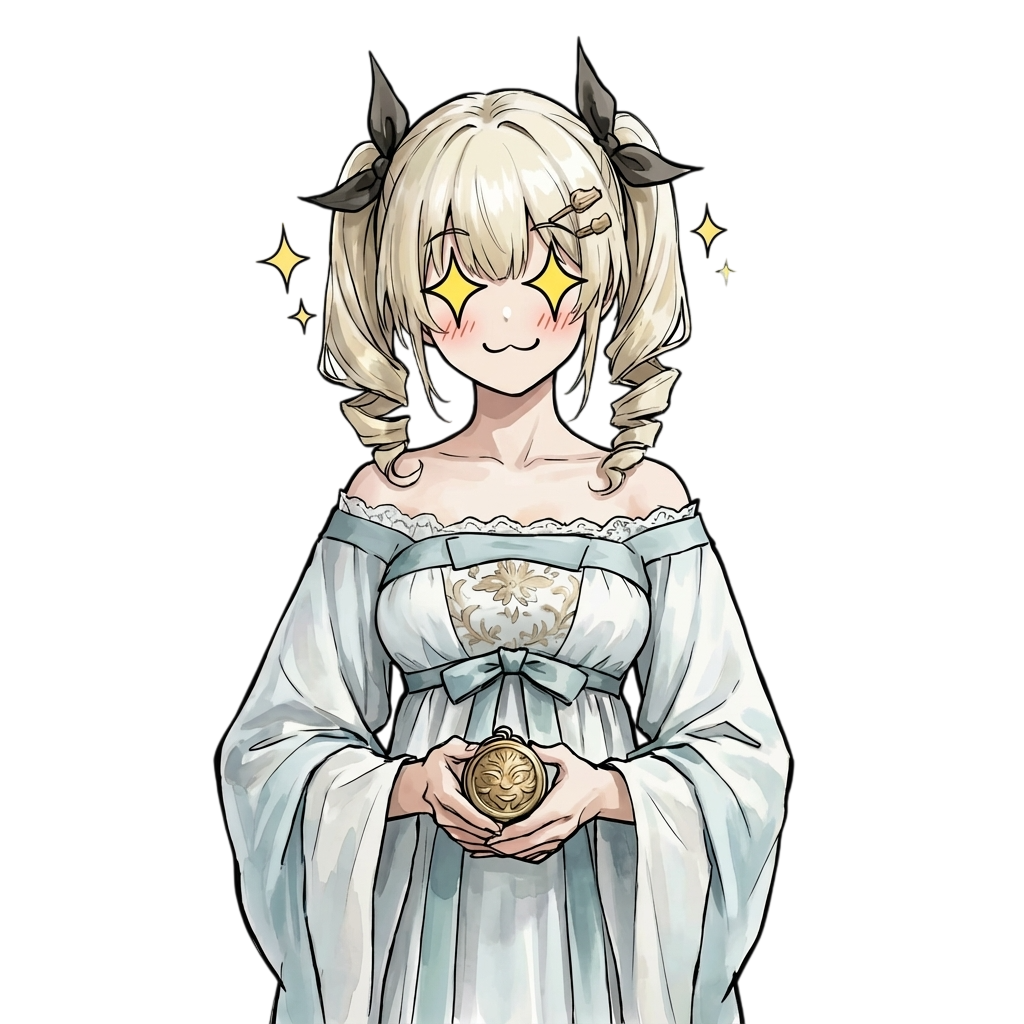
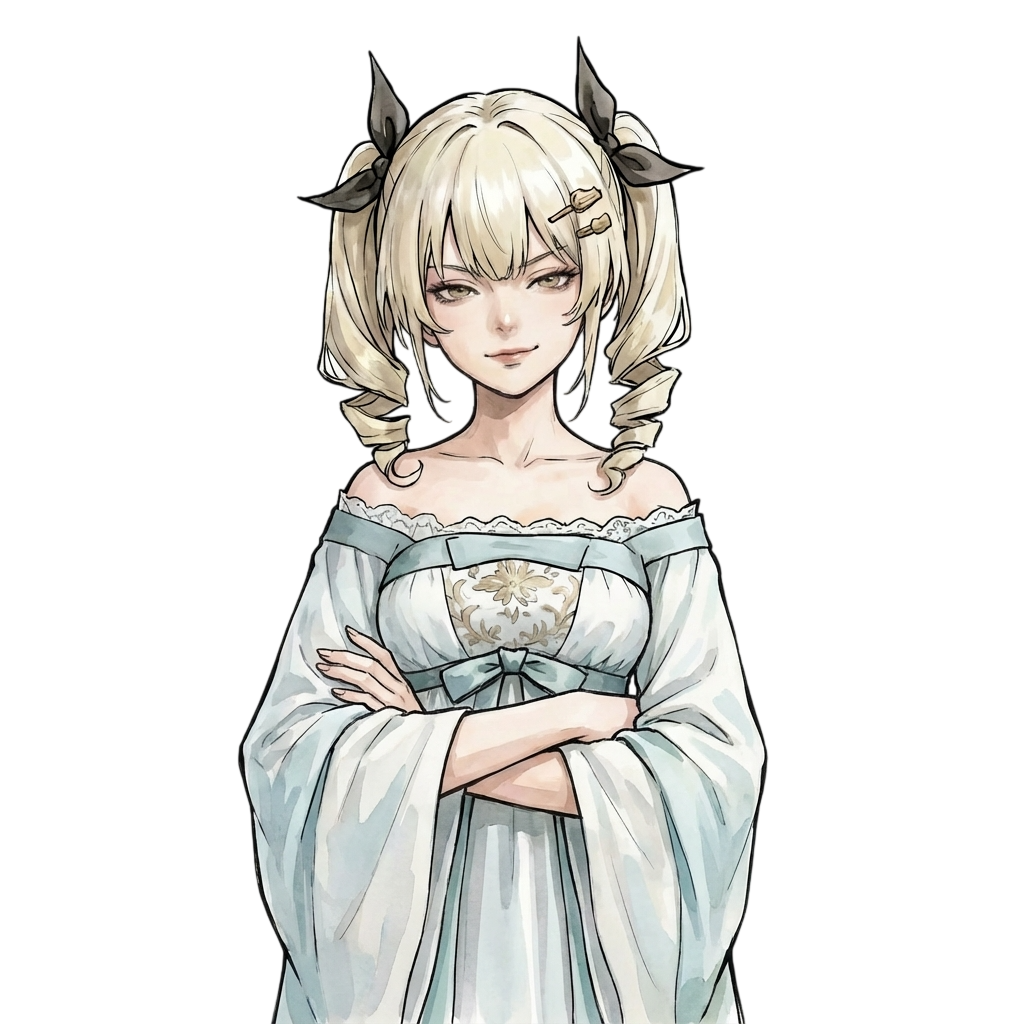
이벤트 로직 및 금채월 이미지 수정

diff --git a/src/components/VisualNovelUI.tsx b/src/components/VisualNovelUI.tsx
@@ -1571,17 +1571,27 @@ export default function VisualNovelUI() {
         let hasActiveEvent = false;
 
         // 1. Prioritize Server-Side Event (Narrative Logic)
-        if (logicResult.triggerEventId && logicResult.currentEvent) {
-            console.log(`[Validating Logic] Server triggered event: ${logicResult.triggerEventId}`);
+        // 1. Prioritize Server-Side Event (Narrative Logic)
+        if (logicResult.triggerEventId) { // [Fix] Removed check for .currentEvent which is usually null
+            console.log(`[Validating Logic] Server triggered event ID: ${logicResult.triggerEventId}`);
 
-            // Add to triggered list (so it doesn't trigger again if 'once')
-            useGameStore.getState().addTriggeredEvent(logicResult.triggerEventId);
+            // Lookup the event prompt from the Store
+            const storedEvents = useGameStore.getState().events || [];
+            const matchedEvent = storedEvents.find((e: any) => e.id === logicResult.triggerEventId);
 
-            // Set as current prompt
-            activeEventPrompt = logicResult.currentEvent;
-            hasActiveEvent = true;
+            if (matchedEvent) {
+                // Add to triggered list (so it doesn't trigger again if 'once')
+                useGameStore.getState().addTriggeredEvent(logicResult.triggerEventId);
 
-            addToast(`Event Triggered: ${logicResult.triggerEventId}`, 'info');
+                // Set as current prompt
+                activeEventPrompt = matchedEvent.prompt;
+                hasActiveEvent = matchedEvent.id; // Store ID as truthy value
+
+                addToast(`Event Triggered: ${matchedEvent.id}`, 'info');
+                console.log(`[Event Found] Prompt Length: ${matchedEvent.prompt.length}`);
+            } else {
+                console.warn(`[Logic Error] Triggered ID '${logicResult.triggerEventId}' not found in Event Registry.`);
+            }
         }
 
         // 2. Client-Side Stat Events (e.g. Low HP, Injuries)
